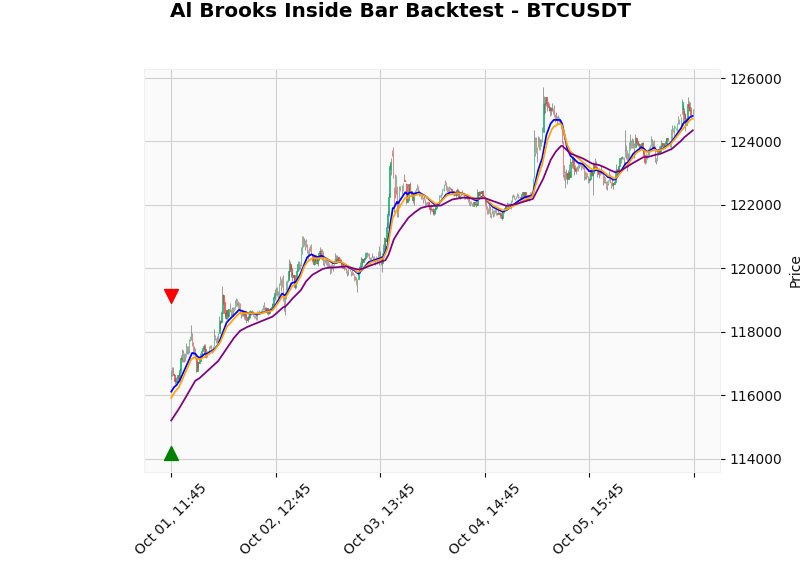
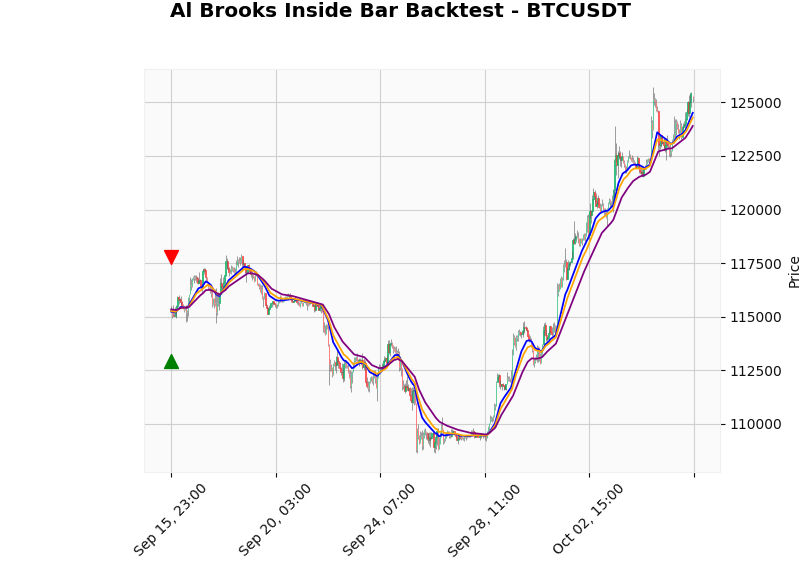
11

diff --git a/src/strategies/al_brooks_1h/optimize.py b/src/strategies/al_brooks_1h/optimize.py
@@ -6,8 +6,7 @@ import optuna
 import pandas as pd
 
 from ...binance_client import get_historical_klines
-from .backtest import backtest_al_brooks_inside_bar
-from .backtest import plot_backtest as plot_backtest_func
+from .backtest import backtest_al_brooks_inside_bar, plot_backtest
 from .config import AlBrooksConfig, save_active_config
 
 
@@ -23,12 +22,12 @@ def load_data(ticker: str, interval: str, days: int) -> pd.DataFrame:
 def make_objective(df_train: pd.DataFrame, lot_size: float):
     def objective(trial: optuna.Trial) -> float:
         # Definir o espaço de busca para os parâmetros
-        ema_fast = trial.suggest_int("ema_fast_period", 5, 15)
-        ema_medium = trial.suggest_int("ema_medium_period", ema_fast + 5, 30)
-        ema_slow = trial.suggest_int("ema_slow_period", ema_medium + 10, 60)
+        ema_fast = trial.suggest_int("ema_fast_period", 8, 20)
+        ema_medium = trial.suggest_int("ema_medium_period", ema_fast + 5, 50)
+        ema_slow = trial.suggest_int("ema_slow_period", ema_medium + 10, 100)
 
         risk_reward_ratio = trial.suggest_float("risk_reward_ratio", 1.5, 3.5, step=0.1)
-        max_avg_deviation_pct = trial.suggest_float("max_avg_deviation_pct", 0.1, 1.0, step=0.05)
+        max_avg_deviation_pct = trial.suggest_float("max_avg_deviation_pct", 0.1, 2.0, step=0.1)
 
         # Roda o backtest com os parâmetros sugeridos
         try:
@@ -48,7 +47,15 @@ def make_objective(df_train: pd.DataFrame, lot_size: float):
         # Métrica de otimização: Profit Factor
         # Queremos maximizar o Profit Factor, mas também garantir que seja lucrativo
         closed_trades = [t for t in trades if "pnl" in t]
-        if not closed_trades:
+        num_trades = len(closed_trades)
+
+        # Penaliza fortemente estratégias com pouquíssimos trades para evitar overfitting
+        min_trades_required = 10
+        if num_trades < min_trades_required:
+            # Retorna um valor negativo que melhora quanto mais perto do mínimo de trades
+            return num_trades - min_trades_required
+
+        if num_trades == 0:
             return 0.0  # Sem trades, sem pontuação
 
         total_profit = sum(t["pnl"] for t in closed_trades if t["pnl"] > 0)
@@ -59,11 +66,7 @@ def make_objective(df_train: pd.DataFrame, lot_size: float):
         else:
             profit_factor = total_profit / total_loss
 
-        # Condição: Apenas considere o Profit Factor se o P&L for positivo
-        if pnl <= 0:
-            return pnl  # Retorna o P&L negativo para penalizar estratégias não lucrativas
-
-        return profit_factor
+        return pnl
 
     return objective
 
@@ -95,7 +98,7 @@ def print_summary(title: str, trades: list, pnl: float):
 def main():
     parser = argparse.ArgumentParser(description="Otimizar a estratégia de Al Brooks com Optuna.")
     parser.add_argument("--ticker", default="BTCUSDT", help="Símbolo do ativo")
-    parser.add_argument("--interval", default="15m", help="Intervalo das velas")
+    parser.add_argument("--interval", default="1h", help="Intervalo das velas")
     parser.add_argument("--days", type=int, default=365, help="Dias de dados históricos")
     parser.add_argument("--train_frac", type=float, default=0.8, help="Fração de dados para treino (ex: 0.8 para 80%)")
     parser.add_argument("--lot_size", type=float, default=0.1, help="Tamanho do lote")
@@ -156,7 +159,7 @@ def main():
     # Plotar o gráfico do período de validação
     if not df_valid.empty:
         print("\nGerando gráfico do período de validação...")
-        plot_backtest_func(df_valid_indicators, trades_valid, f"{args.ticker}_validation")
+        plot_backtest(df_valid_indicators, trades_valid, f"{args.ticker}_validation")
 
 
 if __name__ == "__main__":

diff --git a/src/strategies/al_brooks_1h/backtest.py b/src/strategies/al_brooks_1h/backtest.py
@@ -217,7 +217,7 @@ def plot_backtest(df: pd.DataFrame, trades: list, ticker: str):
 def main():
     parser = argparse.ArgumentParser(description="Backtest para a estratégia de Inside Bar de Al Brooks.")
     parser.add_argument("--ticker", default="BTCUSDT", help="Símbolo do ativo (ex: BTCUSDT)")
-    parser.add_argument("--interval", default="15m", help="Intervalo das velas (ex: 15m, 1h)")
+    parser.add_argument("--interval", default="1h", help="Intervalo das velas (ex: 15m, 1h)")
     parser.add_argument("--days", type=int, default=365, help="Dias de dados históricos para o backtest")
     parser.add_argument("--lot_size", type=float, default=0.1, help="Tamanho do lote para cada operação")
     args = parser.parse_args()

diff --git a/src/strategies/al_brooks_1h/README.md b/src/strategies/al_brooks_1h/README.md
@@ -57,7 +57,7 @@ O fluxo de trabalho é simples: atualizar a base de dados, otimizar a estratégi
 Garanta que seu cache local de dados (`data/klines_cache.db`) esteja atualizado com os dados mais recentes da Binance.
 
 ```bash
-poetry run python -m scripts.populate_cache
+poetry run python -m scripts.populate_cache BTCUSDT 1h
 ```
 
 ### Passo 2: Otimizar a Estratégia (Optuna)
@@ -92,4 +92,3 @@ poetry run python -m src.strategies.al_brooks.live
 ```
 
 Você verá o preço atual e os sinais sendo atualizados a cada 10 segundos.
-
